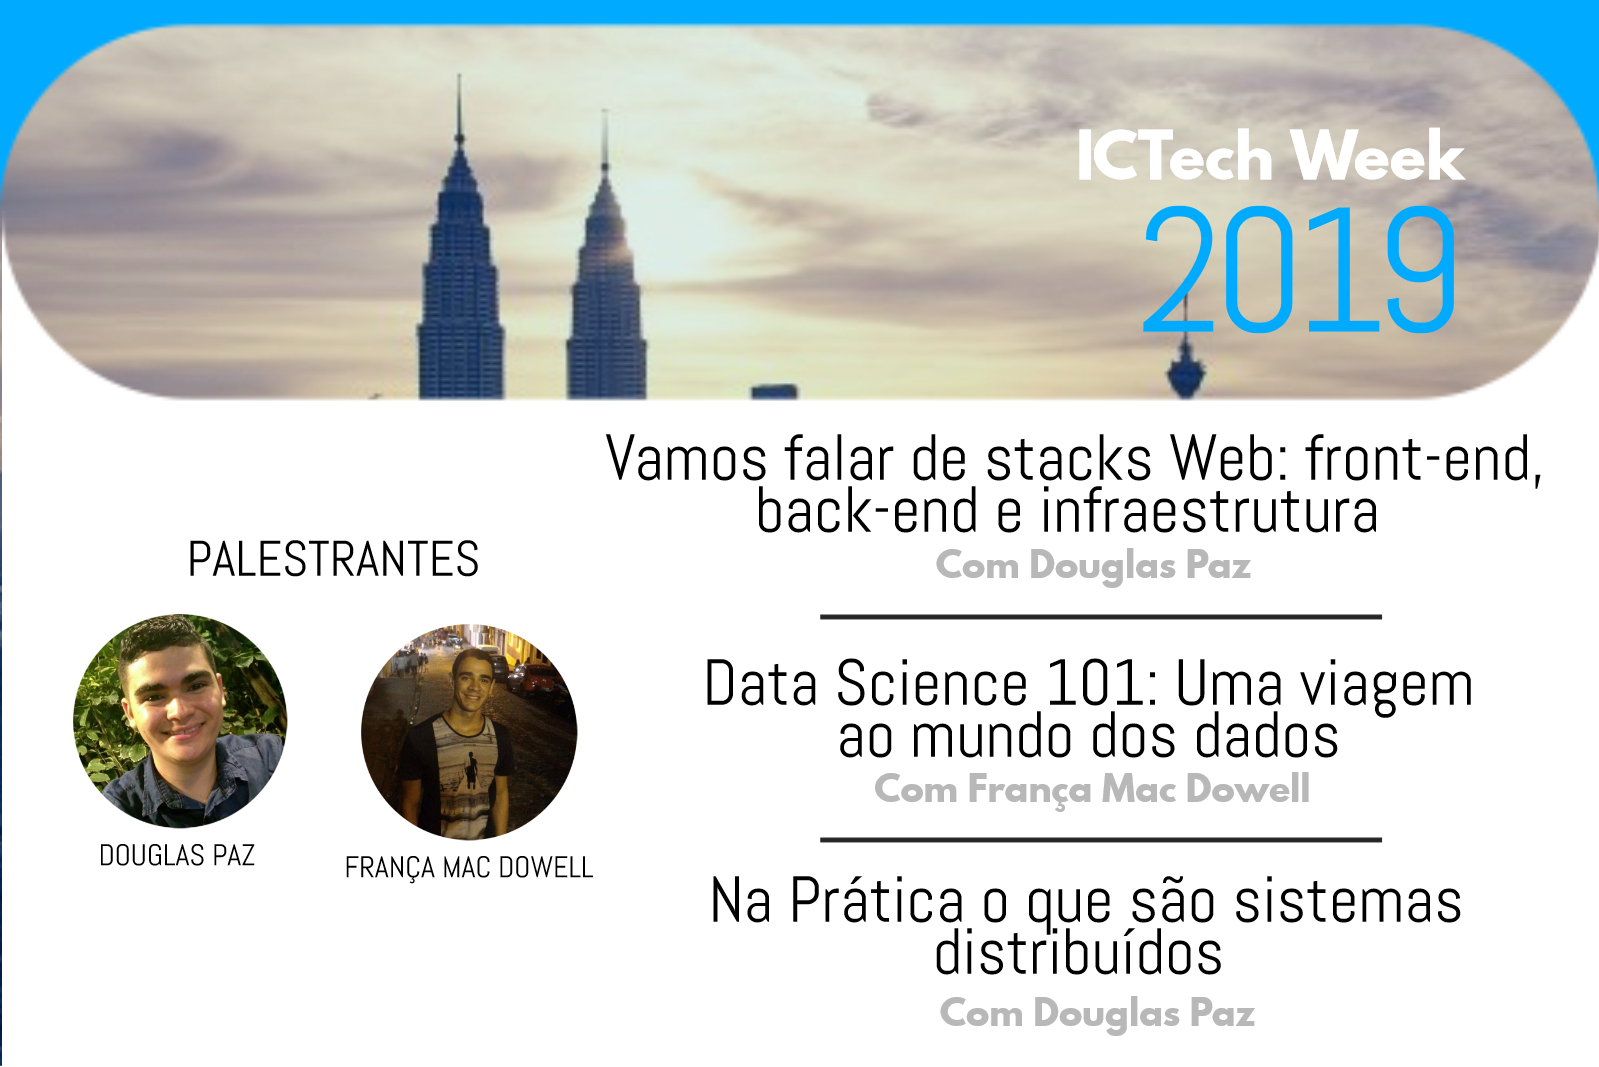
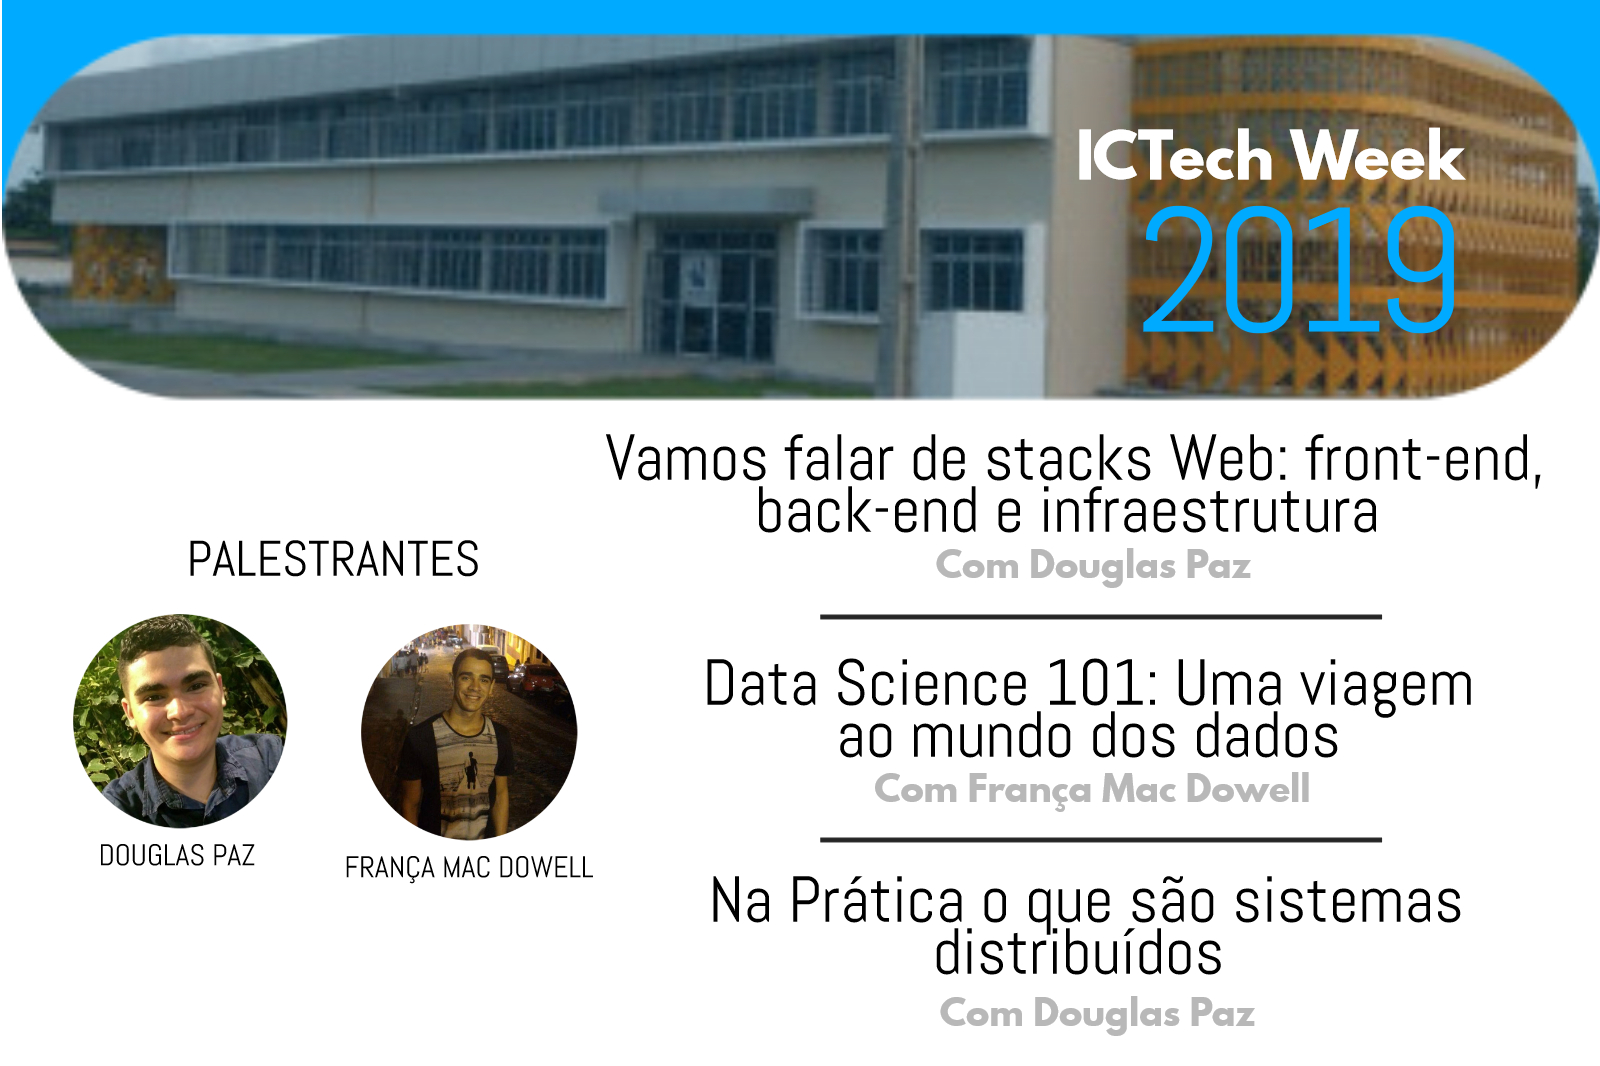
adds new background to slides

diff --git a/index.html b/index.html
@@ -284,7 +284,7 @@
           <p class="text-white-50 mb-4">
               As inscrições ocorrerão no período do <span class="text-white font-weight-bold">dia 08 até o dia 13 de Maio.</span>
           </p>
-          <a class="btn btn-light btn-xl" href="http://bit.ly/ictw-inscricoes">Realizar Inscrição!</a>
+          <a class="btn btn-light btn-xl" href="http://bit.ly/ictw-inscricoes" target="_blank">Realizar Inscrição!</a>
       </div>
   </section>
 
